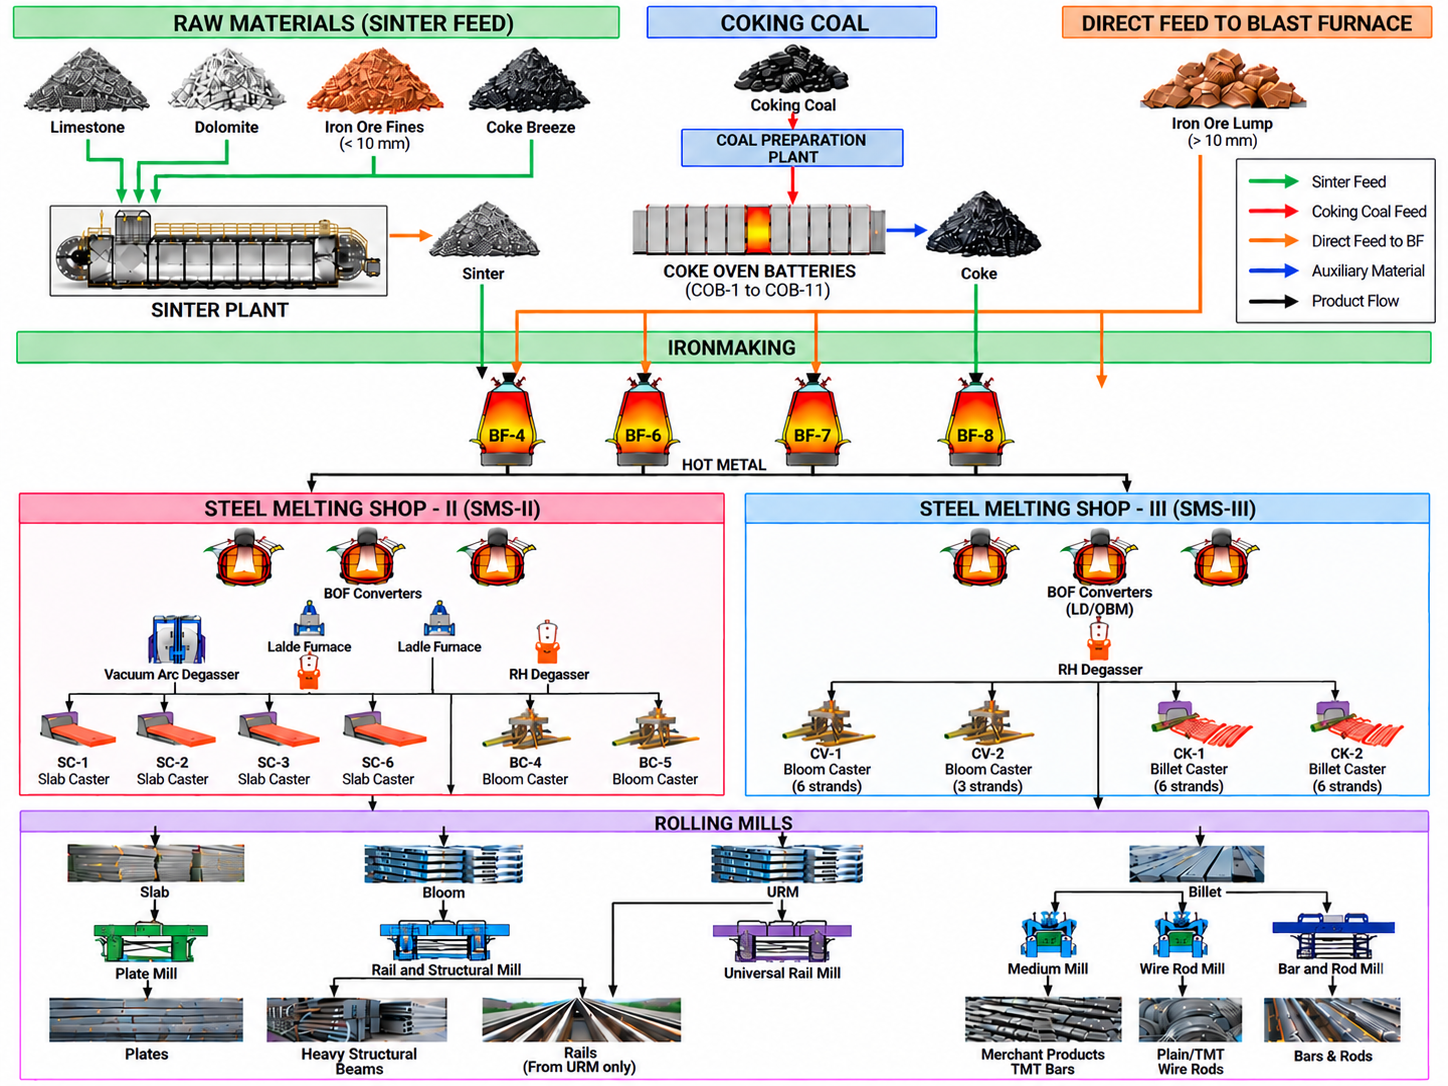
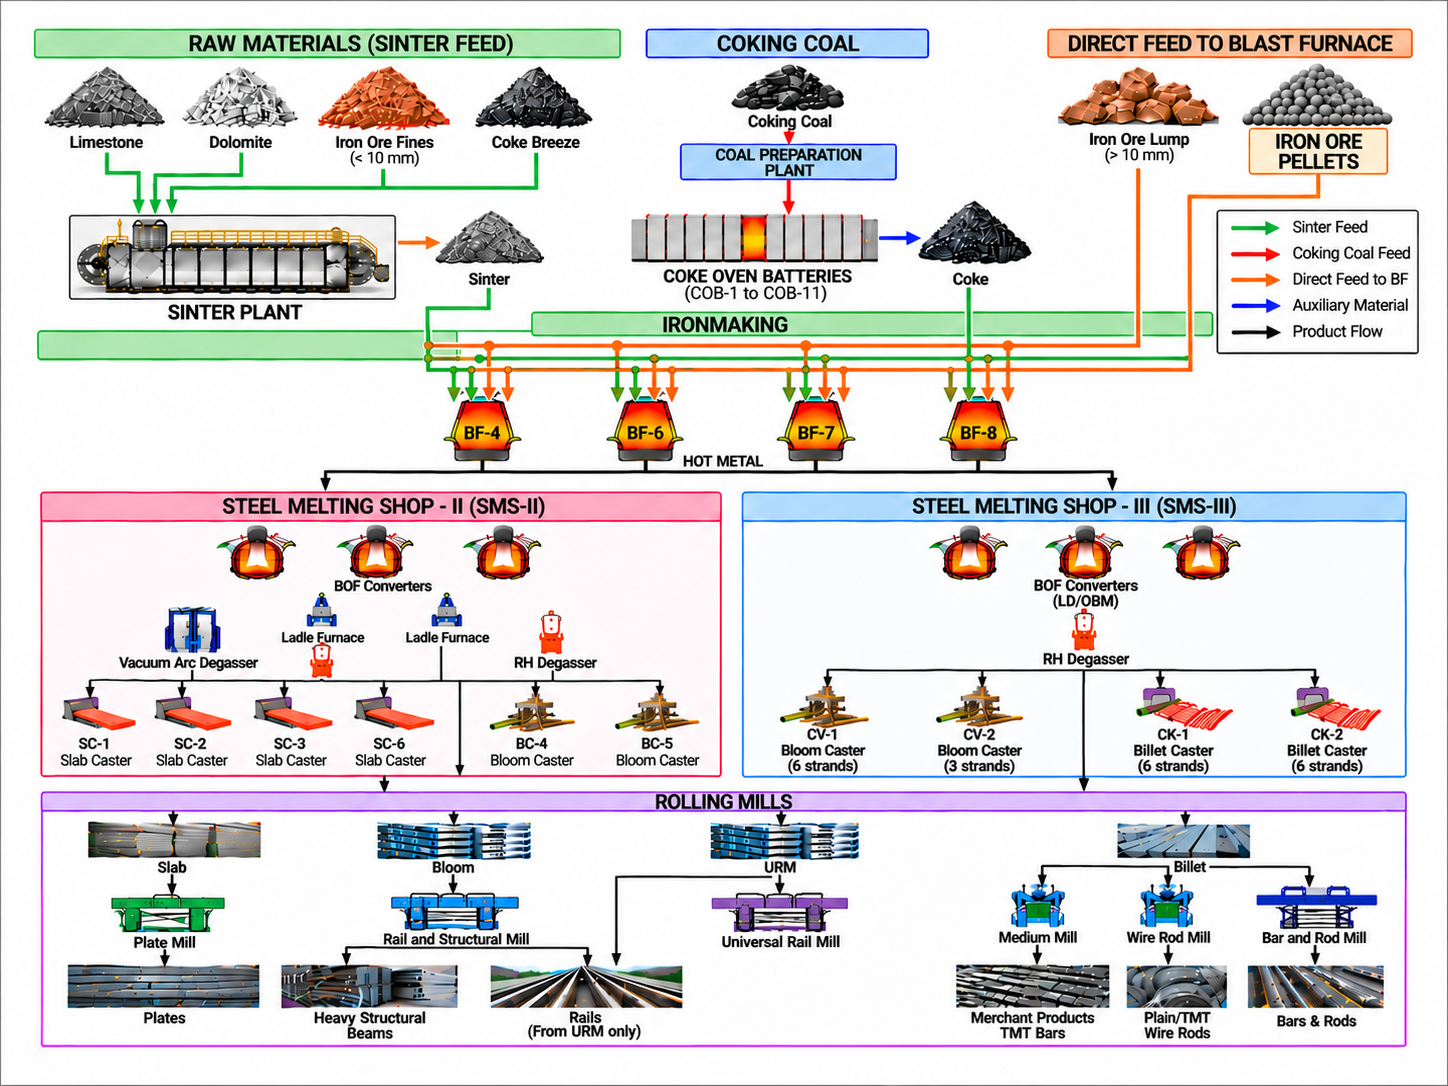
cover pics noe trackable

diff --git a/frontend/src/components/reports/mills-performance/View.js b/frontend/src/components/reports/mills-performance/View.js
@@ -1,0 +1,200 @@
+'use client';
+
+import React, { useEffect, useState } from 'react';
+import { ReportPage } from '../ReportUI';
+
+const API = process.env.NEXT_PUBLIC_API_URL || '';
+
+// SAIL Mill Production Performance for one FY (backend mills_performance.py):
+// every major mill of the five plants with its capacity; Plan (APP) / Actual
+// / %Ful over the months, Q1-Q4, H1, H2 (bold), the FY and Apr-to-latest-month.
+// A cell with no DB data is blank. Excel and PDF downloads from the backend.
+
+const BLUE = '#0000ff';
+const RED = '#ff0000';
+const PERIOD_BG = '#e2efda';   // colors_config.json trend_period_bg
+const TOTAL_BG = '#f2f2f2';    // trend_fy_bg
+const RULE = '1px solid #000';
+const GRID = '1px solid #94a3b8';
+const KINDS = [['plan', 'Plan'], ['act', 'Actual'], ['pct', '%Ful']];
+
+// Same as mills_performance.fmt: a month's tonnage under 10 to one decimal.
+const fmt = (v, colKind, kind) => {
+  if (v == null) return '';
+  const s = kind !== 'pct' && colKind === 'm' && Math.abs(v) < 10 ? v.toFixed(1) : String(Math.round(v));
+  return Number(s) === 0 ? s.replace('-', '') : s;
+};
+
+// Same as mills_performance.cap_lines: '1300 (1000)' -> ['1300', '(1000)'].
+const capLines = (cap) => (cap || '').replace('(', '\n(').split('\n').map((x) => x.trim()).filter(Boolean);
+
+const colBg = (kind) => (kind === 'q' || kind === 'h' ? PERIOD_BG : kind === 'fy' || kind === 'cum' ? TOTAL_BG : undefined);
+
+const btn = (disabled, primary) => ({
+  padding: '8px 18px', fontSize: '10.5pt', fontWeight: 700, borderRadius: 6,
+  cursor: disabled ? 'not-allowed' : 'pointer',
+  border: primary ? 'none' : '1px solid #1a73e8',
+  background: disabled ? '#dadce0' : primary ? '#1a73e8' : '#fff',
+  color: primary ? '#fff' : '#1a73e8',
+});
+
+function Plant({ plant, cols }) {
+  const n = plant.mills.length * 3;
+  return plant.mills.flatMap((m, k) => KINDS.map(([kind, label], j) => {
+    const top = j === 0 ? { borderTop: RULE } : {};
+    return (
+      <tr key={`${k}-${kind}`}>
+        {k === 0 && j === 0 && (
+          <td rowSpan={n} style={{ border: RULE, padding: '0 2px', width: 52, textAlign: 'center', fontWeight: 700, fontSize: '9pt' }}>
+            {plant.plant}
+            {plant.capacity && <div style={{ fontWeight: 400 }}>{plant.capacity}</div>}
+            {plant.note && <div style={{ fontWeight: 400, fontSize: '8pt' }}>{plant.note}</div>}
+          </td>
+        )}
+        {j === 0 && (
+          <>
+            <td rowSpan={3} style={{ border: RULE, padding: '0 2px', width: 52, textAlign: 'center', fontSize: '8.5pt' }}>{m.mill}</td>
+            <td rowSpan={3} style={{ border: RULE, padding: '0 2px', width: 44, textAlign: 'center', fontSize: '8.5pt' }}>
+              {capLines(m.capacity).map((x) => <div key={x}>{x}</div>)}
+            </td>
+          </>
+        )}
+        <td style={{ ...top, padding: '1px 4px', fontSize: '7.5pt', borderLeft: GRID, borderBottom: GRID }}>{label}</td>
+        {cols.map((c, i) => {
+          const v = m[kind][i];
+          const color = kind === 'plan' ? BLUE : kind === 'pct' && v != null && Math.round(v) < 100 ? RED : undefined;
+          return (
+            <td key={i} style={{
+              ...top, padding: '1px 3px', textAlign: 'center', fontSize: '8.5pt', whiteSpace: 'nowrap',
+              borderLeft: GRID, borderBottom: GRID, background: colBg(c.kind), color,
+              fontWeight: c.kind === 'm' ? 400 : 700,
+            }}>
+              {fmt(v, c.kind, kind)}
+            </td>
+          );
+        })}
+      </tr>
+    );
+  }));
+}
+
+export default function MillsPerformanceView() {
+  const [fys, setFys] = useState([]);
+  const [fy, setFy] = useState('');
+  // The loaded report and the fy it is for; loading = it is for another.
+  const [result, setResult] = useState({ key: '', rep: null, error: null });
+  const [busy, setBusy] = useState('');
+  const [error, setError] = useState(null);
+  const loading = !!fy && result.key !== fy;
+  const rep = result.rep;
+
+  useEffect(() => {
+    fetch(`${API}/api/mills-performance/fys`)
+      .then((r) => (r.ok ? r.json() : Promise.reject(new Error(`HTTP ${r.status}`))))
+      .then((d) => {
+        setFys(d.fys || []);
+        if (d.fys && d.fys.length) setFy(String(d.fys[0]));
+      })
+      .catch((e) => setError(`Could not load financial years: ${e.message}`));
+  }, []);
+
+  useEffect(() => {
+    if (!fy) return undefined;
+    let live = true;
+    fetch(`${API}/api/mills-performance?fy=${fy}`)
+      .then(async (r) => {
+        const body = await r.json().catch(() => ({}));
+        if (!r.ok) throw new Error(body.detail || `HTTP ${r.status}`);
+        return body;
+      })
+      .then((d) => { if (live) setResult({ key: fy, rep: d, error: null }); })
+      .catch((e) => { if (live) setResult({ key: fy, rep: null, error: e.message }); });
+    return () => { live = false; };
+  }, [fy]);
+
+  const download = async (ext) => {
+    setBusy(ext);
+    setError(null);
+    try {
+      const res = await fetch(`${API}/api/mills-performance/${ext}?fy=${fy}`);
+      if (!res.ok) {
+        const body = await res.json().catch(() => ({}));
+        throw new Error(body.detail || `HTTP ${res.status}`);
+      }
+      const cd = res.headers.get('content-disposition') || '';
+      const name = (cd.match(/filename="([^"]+)"/) || [])[1] || `Mills_Performance_${fy}.${ext}`;
+      const url = window.URL.createObjectURL(await res.blob());
+      const a = document.createElement('a');
+      a.href = url;
+      a.download = name;
+      document.body.appendChild(a);
+      a.click();
+      a.remove();
+      window.URL.revokeObjectURL(url);
+    } catch (e) {
+      setError(`Download failed: ${e.message}`);
+    } finally {
+      setBusy('');
+    }
+  };
+
+  const ready = !!fy && !loading && !!rep;
+  const fyLabel = (y) => `${y}-${String((Number(y) + 1) % 100).padStart(2, '0')}`;
+
+  return (
+    <ReportPage
+      title="Mills Performance"
+      description="Mill-wise production of BSP, DSP, RSP, BSL and ISP against the APP monthly plan, with capacity, quarter, half-year, FY and Apr-to-date totals. Cells with no data in the database are left blank."
+      actions={(
+        <>
+          <label htmlFor="mills-fy" style={{ fontWeight: 600, fontSize: '10.5pt' }}>FY</label>
+          <select id="mills-fy" value={fy} onChange={(e) => setFy(e.target.value)}
+                  style={{ padding: '7px 10px', fontSize: '10.5pt', border: '1px solid #dadce0', borderRadius: 6, background: '#fff' }}>
+            {fys.map((y) => <option key={y} value={y}>{fyLabel(y)}</option>)}
+          </select>
+          <button type="button" onClick={() => download('xlsx')} disabled={!ready || !!busy} style={btn(!ready || !!busy, true)}>
+            {busy === 'xlsx' ? 'Preparing…' : '⬇ Excel'}
+          </button>
+          <button type="button" onClick={() => download('pdf')} disabled={!ready || !!busy} style={btn(!ready || !!busy, false)}>
+            {busy === 'pdf' ? 'Preparing…' : '⬇ PDF'}
+          </button>
+        </>
+      )}
+    >
+      {(error || result.error) && (
+        <div style={{ padding: '10px 14px', border: '1px solid #f28b82', borderRadius: 6, background: '#fce8e6', color: '#c5221f', marginBottom: 12 }}>
+          {error || result.error}
+        </div>
+      )}
+      {loading && !rep && <div style={{ padding: 16 }}>Loading…</div>}
+      {rep && (
+        <div style={{ background: '#fff', padding: 12, borderRadius: 8, border: '1px solid #e2e8f0', opacity: loading ? 0.5 : 1 }}>
+          <div style={{ fontFamily: "'Times New Roman', serif", fontSize: '13pt', fontWeight: 700, textAlign: 'center' }}>{rep.title}</div>
+          <div style={{ fontSize: '8pt', marginBottom: 4, textAlign: 'right' }}>Unit: &apos;000 T</div>
+          {!rep.has_plan && (
+            <div style={{ padding: '8px 12px', background: '#fffbeb', border: '1px solid #fde68a', borderRadius: 6, color: '#92400e', fontSize: 13, marginBottom: 6 }}>
+              No APP data in the database for FY {rep.fy_label}.
+            </div>
+          )}
+          <div style={{ overflowX: 'auto' }}>
+            <table style={{ borderCollapse: 'collapse', border: RULE, width: '100%', minWidth: 1200, fontFamily: "'Times New Roman', serif" }}>
+              <thead>
+                <tr>
+                  {['Plant', 'Mill', 'Capacity', ''].map((h, i) => (
+                    <th key={i} style={{ border: RULE, padding: '2px 4px', fontSize: '8.5pt' }}>{h}</th>
+                  ))}
+                  {rep.columns.map((c) => (
+                    <th key={c.label} style={{ border: RULE, padding: '2px 3px', fontSize: '8.5pt', whiteSpace: 'nowrap', background: colBg(c.kind) }}>{c.label}</th>
+                  ))}
+                </tr>
+              </thead>
+              <tbody>
+                {rep.plants.map((p) => <Plant key={p.plant} plant={p} cols={rep.columns} />)}
+              </tbody>
+            </table>
+          </div>
+        </div>
+      )}
+    </ReportPage>
+  );
+}

diff --git a/frontend/src/components/reports/reportGroups.js b/frontend/src/components/reports/reportGroups.js
@@ -93,12 +93,13 @@ export const REPORT_GROUPS = [
     id: 'excel',
     route: '/reports/excel',
     title: 'Excel Report',
-    description: 'Reports with Excel downloads: plant-wise performance of main items (APP & MoU), the APP / MoU vs actual trend and the product-mix report.',
+    description: 'Reports with Excel downloads: plant-wise performance of main items (APP & MoU), the APP / MoU vs actual trend, mills performance and the product-mix report.',
     icon: '📗',
     tabs: [
       { id: 'plant-performance-items', label: 'Plant Wise Performance (APP & MoU)', description: 'Plant Wise Performance of Main Items against APP and MoU; Excel and PDF download.' },
       { id: 'pmix-fy', label: 'Pmix Report (Year-wise)', description: 'Product-mix report, financial-year view.' },
       { id: 'app-actual-trend', label: 'APP / MoU vs Actual Trend', description: 'FY trend of plan (APP or MoU) against actual for HM, Crude Steel, Saleable Steel, Saleable production and Finished Steel, plant-wise with quarter, half-year and FY totals; Excel and PDF download.' },
+      { id: 'mills-performance', label: 'Mills Performance', description: 'Mill-wise production of the five plants against the monthly APP, with capacity and quarter, half-year, FY and Apr-to-date totals; Excel and PDF download.' },
     ],
   },
   {

diff --git a/frontend/src/components/reports/ReportTabs.js b/frontend/src/components/reports/ReportTabs.js
@@ -46,6 +46,7 @@ const VIEWS = {
   'plant-performance-items': dynamic(() => import('./plant-performance-items/View'), { loading }),
   'pmix-fy': dynamic(() => import('./pmix-fy/View'), { loading }),
   'app-actual-trend': dynamic(() => import('./app-actual-trend/View'), { loading }),
+  'mills-performance': dynamic(() => import('./mills-performance/View'), { loading }),
   'sefi': dynamic(() => import('./sefi/View'), { loading }),
   'steel-bulletin': dynamic(() => import('./steel-bulletin/View'), { loading }),
   'cmd-monthly-report': dynamic(() => import('./cmd-monthly-report/View'), { loading }),

diff --git a/backend/main.py b/backend/main.py
@@ -464,6 +464,7 @@ from layout_loader import load_layout_config
 from api_rsp_techno import router as rsp_techno_router
 from api_plant_performance import router as plant_performance_router
 from api_app_actual_trend import router as app_actual_trend_router
+from api_mills_performance import router as mills_performance_router
 from api_mines_performance import router as mines_performance_router
 from api_rmt_plan import router as rmt_plan_router
 from api_cost_production import router as cost_production_router
@@ -972,6 +973,7 @@ app.add_middleware(
 app.include_router(rsp_techno_router)
 app.include_router(plant_performance_router)
 app.include_router(app_actual_trend_router)
+app.include_router(mills_performance_router)
 app.include_router(mines_performance_router)
 app.include_router(rmt_plan_router)
 app.include_router(cost_production_router)
